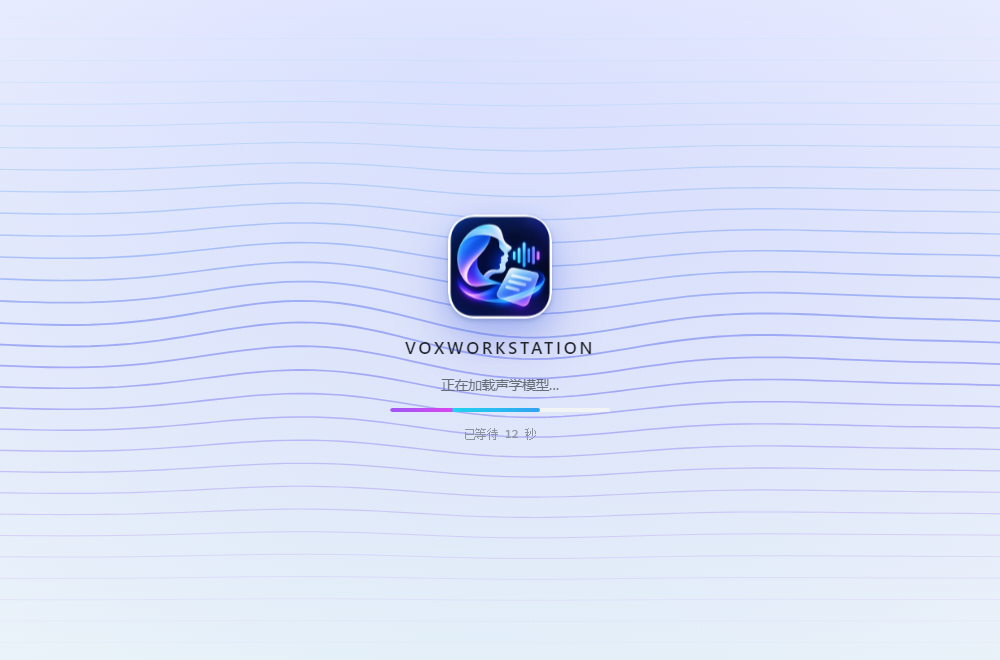
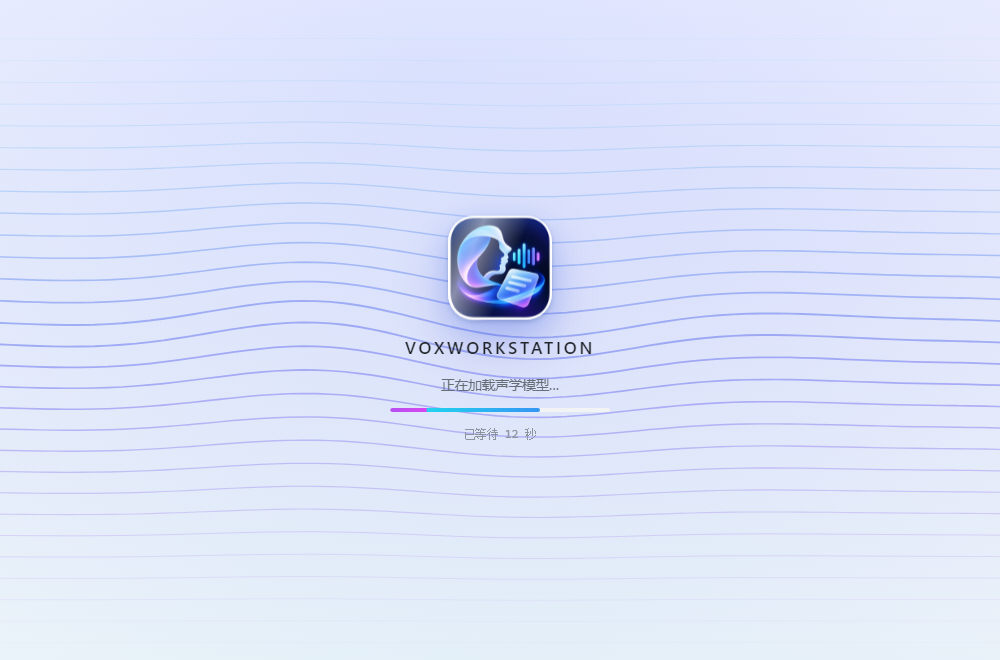
feat: 加载页图标出场动画
插画图标没有可生长的笔画，所以改用三件事叠加出「长出来」的观感：

1. 弹性放大出场
   scale(.62) + 下移 14px + 模糊 7px → 1.05s 内放大到位，
   中间有一次轻微过冲（scale 1.035）制造弹性；
   模糊与缩放同步收敛，像从虚到实

2. 高光扫过
   出场后 0.5s，一道斜向白色高光从左上扫到右下（1.15s），
   像图标刚被打磨过一遍

3. 光晕爆发 + 常驻呼吸
   出场瞬间有一圈同色描边向外炸开到 2.05 倍并淡出；
   随后转入 3.4s 一轮的呼吸光晕

文字与进度条的入场延后到 0.62–0.86s，让图标先立住再出内容。

顺带用几何测量验证居中（此前我靠目测误判为偏移）：
  .ld-mk / .ld-title / .ld-bar 中心均为 500.0，偏移 -0.0px
即所有元素精确居中，此前的「偏左」是缩略图目测误差。

全部动效尊重 prefers-reduced-motion。

Changed region(s): [[0.434, 0.303, 0.558, 0.4848], [0.403, 0.6061, 0.465, 0.6364], [0.372, 0.4848, 0.403, 0.5152]]

diff --git a/renderer/css/style.css b/renderer/css/style.css
@@ -1580,3 +1580,79 @@ table th:last-child,table td:last-child{padding-right:14px}
   #loading-overlay .ld-bar i{animation:none!important}
 }
 
+
+/* ══════════════════════════════════════════════════════════
+   加载页图标：出场动画
+   插画图标没有可生长的笔画，所以用「弹性放大 + 高光扫过 +
+   光晕爆发」三件事叠出「长出来」的感觉，随后转入悬浮呼吸。
+   ══════════════════════════════════════════════════════════ */
+
+/* 外层负责出场与常驻浮动，避免两套 transform 打架 */
+.ld-mark{
+  width:104px;height:104px;border-radius:26px;display:block;margin:0 auto;
+  position:relative;z-index:2;
+  box-shadow:0 2px 4px rgba(20,40,90,.20),0 12px 30px rgba(37,99,235,.26),0 28px 60px rgba(80,60,200,.18);
+  animation:ldMarkIn 1.05s cubic-bezier(.16,1.02,.28,1) both,
+            ldMarkFloat 4.6s ease-in-out 1.15s infinite;
+}
+@keyframes ldMarkIn{
+  0%  {opacity:0;transform:scale(.62) translateY(14px);filter:blur(7px)}
+  55% {opacity:1;filter:blur(0)}
+  72% {transform:scale(1.035) translateY(-2px)}   /* 轻微过冲，弹性感 */
+  100%{transform:scale(1) translateY(0);filter:blur(0)}
+}
+@keyframes ldMarkFloat{0%,100%{transform:translateY(0)}50%{transform:translateY(-5px)}}
+
+/* ① 出场瞬间向外炸开的光环 */
+.ld-mark::before{
+  content:'';position:absolute;inset:0;border-radius:26px;z-index:-2;
+  border:2px solid rgba(90,150,255,.75);
+  animation:ldBurst 1.5s cubic-bezier(.16,.9,.3,1) .28s both;
+}
+@keyframes ldBurst{
+  0%  {opacity:0;transform:scale(.9)}
+  22% {opacity:.9}
+  100%{opacity:0;transform:scale(2.05)}
+}
+/* ② 常驻呼吸光晕 */
+.ld-mark::after{
+  content:'';position:absolute;inset:-18px;border-radius:44px;z-index:-1;
+  background:radial-gradient(circle,rgba(80,140,255,.42),rgba(150,90,240,.16) 55%,transparent 72%);
+  animation:ldHalo 3.4s ease-in-out 1.2s infinite;
+}
+@keyframes ldHalo{0%,100%{opacity:.45;transform:scale(.94)}50%{opacity:1;transform:scale(1.07)}}
+
+/* ③ 一道斜向高光在出场后扫过图标，像被打磨了一下 */
+.ld-glow{
+  position:absolute;inset:0;border-radius:26px;overflow:hidden;
+  pointer-events:none;z-index:3;
+}
+.ld-glow::after{
+  content:'';position:absolute;inset:0;
+  background:linear-gradient(112deg,transparent 34%,rgba(255,255,255,.52) 48%,transparent 62%);
+  background-size:280% 100%;
+  animation:ldSheen 1.15s cubic-bezier(.3,.6,.35,1) .5s both;
+}
+@keyframes ldSheen{
+  0%  {background-position:190% 0;opacity:0}
+  15% {opacity:1}
+  100%{background-position:-90% 0;opacity:1}
+}
+
+/* 文字与进度条的入场延后一点，让图标先立住 */
+.ld-title{animation-delay:.62s}
+.ld-text{animation-delay:.70s}
+.ld-bar{animation-delay:.78s}
+.ld-elapsed{animation-delay:.86s}
+
+@media (prefers-reduced-motion: reduce){
+  .ld-mark,.ld-mark::before,.ld-mark::after,.ld-glow::after{animation:none!important}
+  .ld-mark{opacity:1;transform:none;filter:none}
+}
+
+
+/* 图标容器：负责居中，内部 img 填满；高光层贴在其上 */
+.ld-mk{display:block;width:104px;height:104px;margin:0 auto;position:relative}
+.ld-mk .ld-mark{width:100%;height:100%;margin:0}
+.ld-mk .ld-glow{border-radius:26px}
+

diff --git a/renderer/index.html b/renderer/index.html
@@ -60,7 +60,7 @@
 <div id="loading-overlay">
   <div class="ld-bg"><img class="ld-waves" src="assets/loading-waves.svg" alt=""></div>
   <div class="ld-stage">
-    <img class="ld-mark" src="../assets/icons/app-icon-256.png" alt="" aria-hidden="true">
+    <span class="ld-mk"><img class="ld-mark" src="../assets/icons/app-icon-256.png" alt="" aria-hidden="true"><span class="ld-glow"></span></span>
     <h1 class="ld-title">VoxWorkstation</h1>
     <p id="loading-text" class="ld-text">正在启动语音引擎…</p>
     <div class="ld-bar"><i id="loading-bar"></i></div>
